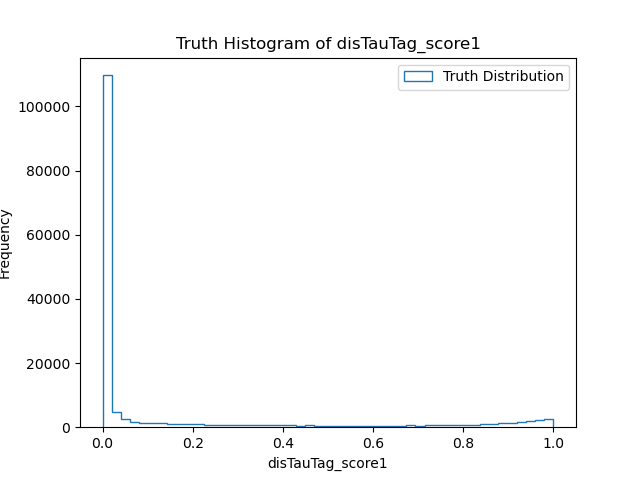
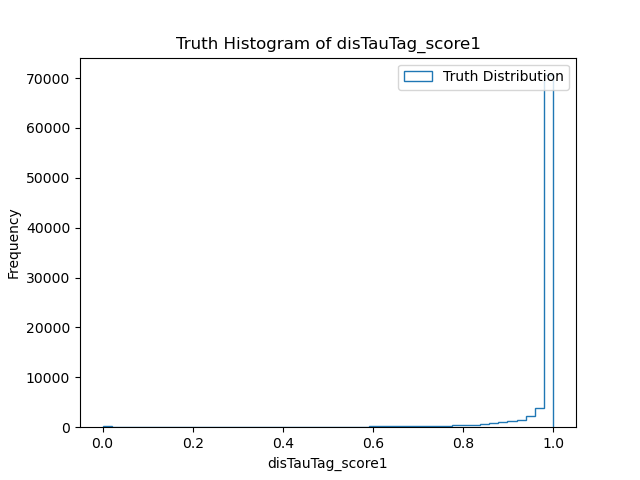
:hammer::bug::clown_face: Run on signal file, not bg

diff --git a/dtt-hist.py b/dtt-hist.py
@@ -11,9 +11,10 @@ from coffea.analysis_tools import PackedSelection
 NanoAODSchema.warn_missing_crossrefs = False
 
 # Import dataset
-# TODO: after testing, use both files and produce hists simultaneously
-#fname = "/eos/user/d/dally/DisplacedTauAnalysis/080924_BG_Out/TTtoLNu2Q_TuneCP5_13p6TeV_powheg-pythia8/crab_TTtoLNu2Q_TuneCP5_13p6TeV_powheg-pythia8/240809_215454/0000/nanoaod_output_1.root" # signal
-fname = "/eos/user/d/dally/DisplacedTauAnalysis/080924_BG_Out/TTto4Q_TuneCP5_13p6TeV_powheg-pythia8/crab_TTto4Q_TuneCP5_13p6TeV_powheg-pythia8/240809_215611/0000/nanoaod_output_1-1.root" # background
+
+fname = "/eos/user/d/dally/DisplacedTauAnalysis/SMS-TStauStau_MStau-100_ctau-100mm_mLSP-1_TuneCP5_13p6TeV_NanoAOD.root" # signal
+#fname = "/eos/user/d/dally/DisplacedTauAnalysis/080924_BG_Out/TTto4Q_TuneCP5_13p6TeV_powheg-pythia8/crab_TTto4Q_TuneCP5_13p6TeV_powheg-pythia8/240809_215611/0000/nanoaod_output_1-1.root" # background
+
 
 # Pass dataset info to coffea object
 events = NanoEventsFactory.from_root(
@@ -33,14 +34,14 @@ gpart = events.GenPart
 #dr_mask = events.Jet.nearest(gpart, threshold = dr_max) 
 
 # Tau stuff
-taus = events.Tau
+taus = events.GenPart[events.GenVisTau.genPartIdxMother]
 #tau_selection = taus[
 #        (numpy.abs(taus.eta) < max_eta) &
 #        (taus.pt > min_pT)]
-#stau_taus = taus[abs(taus.distinctParent.pdgId) == 1000015]
+stau_taus = taus[abs(taus.distinctParent.pdgId) == 1000015]
 
 # Jet stuff
-tau_jets = taus.nearest(events.Jet, threshold = dr_max)
+tau_jets = stau_taus.nearest(events.Jet, threshold = dr_max)
 matched_scores = tau_jets.disTauTag_score1
 
 # Convert to a flat array for histogram
@@ -50,18 +51,9 @@ flattened_scores = ak.flatten(matched_scores, axis=None)
 bins = numpy.linspace(0, 1, 50)
 
 # Plot the histogram
-#--- Truth ---#
-#plt.hist(flattened_scores, bins=bins, histtype='step', label='Truth Distribution')
-#plt.xlabel('disTauTag_score1')
-#plt.ylabel('Frequency')
-#plt.title('Truth Histogram of disTauTag_score1')
-#plt.legend()
-# plt.savefig("tau-truth-hist.png")
-
-#--- Fake ---#
-plt.hist(flattened_scores, bins=bins, histtype='step', label='Fake Distribution')
+plt.hist(flattened_scores, bins=bins, histtype='step', label='Truth Distribution')
 plt.xlabel('disTauTag_score1')
 plt.ylabel('Frequency')
-plt.title('Fake Rate Histogram of disTauTag_score1')
+plt.title('Truth Histogram of disTauTag_score1')
 plt.legend()
-plt.savefig("tau-fake-hist.png")
+plt.savefig("tau-truth-hist.png")
